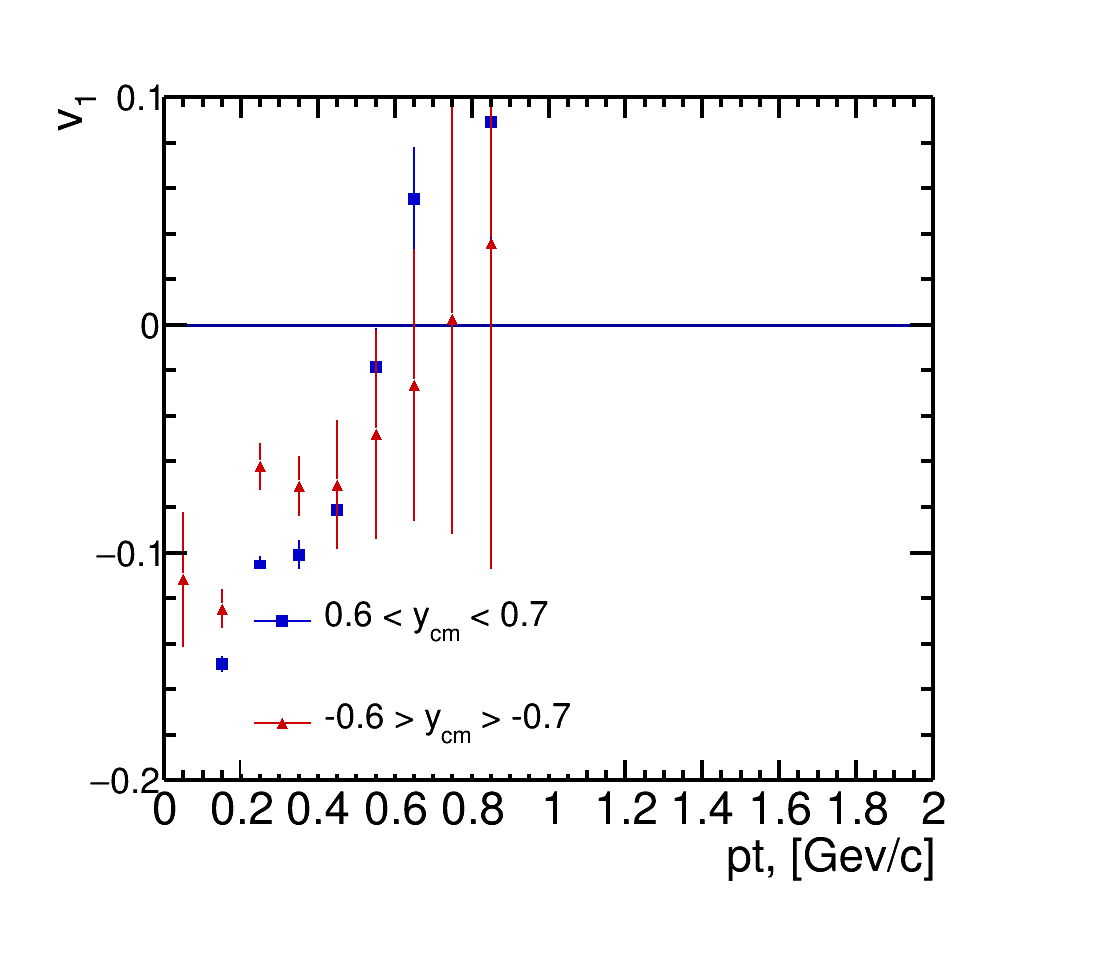
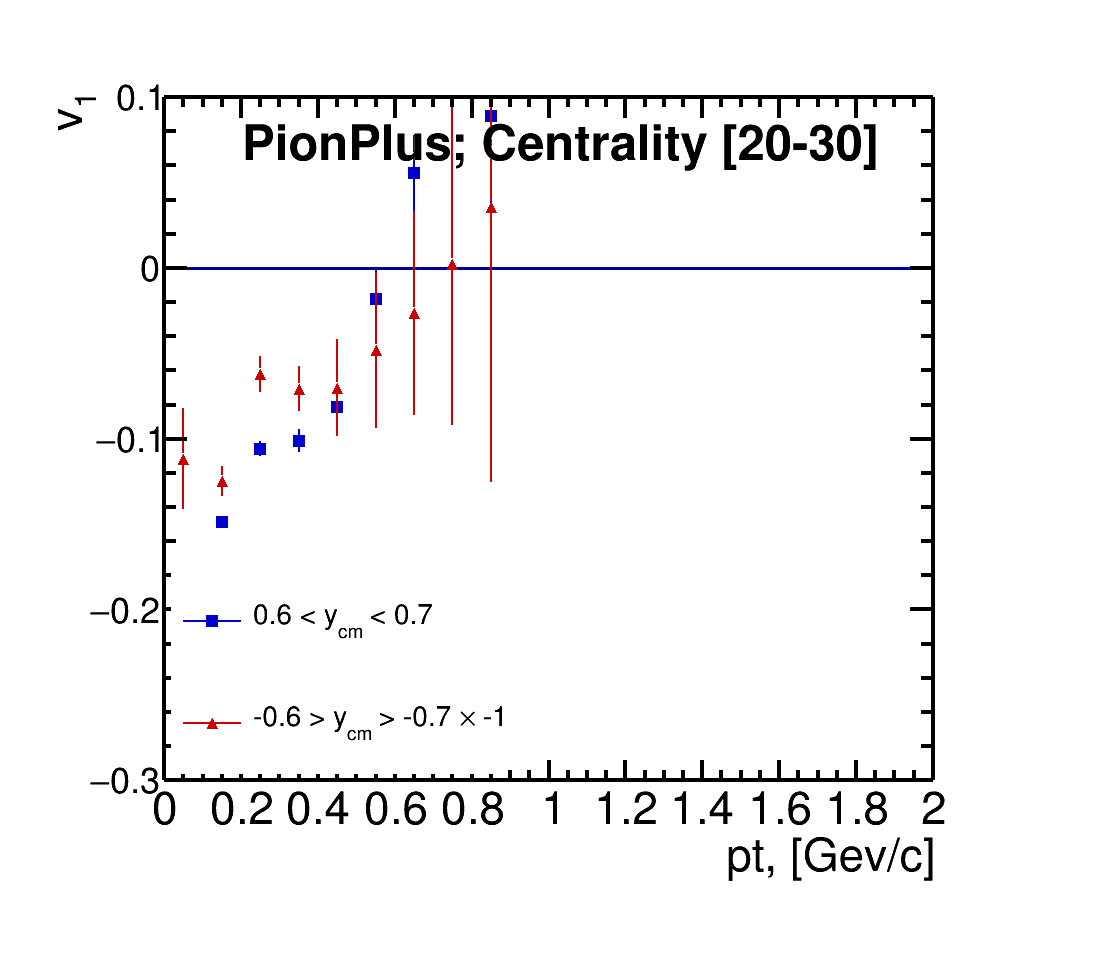
Bugs fixed

diff --git a/src/CorrelationMananger.h b/src/CorrelationMananger.h
@@ -5,56 +5,58 @@
 #ifndef QNDRAWER_CORRELATIONMANANGER_H
 #define QNDRAWER_CORRELATIONMANANGER_H
 
+#include "DataContainer.h"
+#include "Method.h"
+#include "Stats.h"
+#include "TFile.h"
+#include <map>
+#include <memory>
 #include <string>
 #include <utility>
 #include <vector>
-#include <memory>
-#include <map>
-#include "TFile.h"
-#include "DataContainer.h"
-#include "Stats.h"
 
 class CorrelationMananger {
 public:
-    CorrelationMananger() = default;
-    ~CorrelationMananger(){ heap_.clear(); }
-    void SetFile(const std::string& fileName) { file_.reset(TFile::Open(fileName.data())); }
-    void SetFile(std::shared_ptr<TFile> file) { file_ = std::move(file); }
-    void SetFile(TFile* file) { file_.reset(file); }
-    Qn::DataContainer<Qn::Stats>& GetDataContainer(const std::string& name){
-      Qn::DataContainer<Qn::Stats>* ptr{nullptr};
-      if( heap_.count(name) !=0 )
-        return heap_.at(name);
-      if(!file_)
-        return *ptr;
-      file_->GetObject( name.data(), ptr );
-      if(!ptr)
-      {
-        std::cout << "No such a data container: " << name << std::endl;
-        return *ptr;
-      }
-      heap_.insert( make_pair(name, *ptr) );
+  CorrelationMananger() = default;
+  ~CorrelationMananger(){ heap_.clear(); }
+  void SetFile(const std::string& fileName) { file_.reset(TFile::Open(fileName.data())); }
+  void SetFile(std::shared_ptr<TFile> file) { file_ = std::move(file); }
+  void SetFile(TFile* file) { file_.reset(file); }
+  Qn::DataContainer<Qn::Stats>& GetDataContainer(const std::string& name){
+    Qn::DataContainer<Qn::Stats>* ptr{nullptr};
+    if( heap_.count(name) !=0 )
+      return heap_.at(name);
+    if(!file_)
+      return *ptr;
+    file_->GetObject( name.data(), ptr );
+    if(!ptr)
+    {
+      std::cout << "No such a data container: " << name << std::endl;
       return *ptr;
     }
-    std::vector<Qn::DataContainer<Qn::Stats>> GetDataContainerVector(const std::vector<std::string>& names){
-      std::vector<Qn::DataContainer<Qn::Stats>> result;
-      result.reserve(names.size());
-      for(const auto& name: names){
-        result.push_back(GetDataContainer(name));
-      }
-      return result;
-    };
-    void SaveToFile(const std::string& fileName){
-        auto* file = new TFile( fileName.data(),"recreate" );
-        file->cd();
-        for(auto &container : heap_)
-        {
-            container.second.Write(container.first.data());
-        }
+    heap_.insert( make_pair(name, *ptr) );
+    return *ptr;
+  }
+  std::vector<Qn::DataContainer<Qn::Stats>> GetDataContainerVector(const std::vector<std::string>& names){
+    std::vector<Qn::DataContainer<Qn::Stats>> result;
+    result.reserve(names.size());
+    for(const auto& name: names){
+      result.push_back(GetDataContainer(name));
     }
+    return result;
+  };
+  void SaveToFile(const std::string& fileName){
+    auto* file = new TFile( fileName.data(),"recreate" );
+    file->cd();
+    for(auto &container : heap_)
+    {
+        container.second.Write(container.first.data());
+    }
+  }
+
 protected:
-    std::map<std::string, Qn::DataContainer<Qn::Stats> > heap_;
-    std::shared_ptr<TFile> file_;
+  std::map<std::string, Qn::DataContainer<Qn::Stats> > heap_;
+  std::shared_ptr<TFile> file_;
 };
 
 

diff --git a/Painter/DrawFwBw.C b/Painter/DrawFwBw.C
@@ -1,9 +1,13 @@
 #include "SetStyle.h"
+#include <string>
 
-void DrawFwBw(){
+void DrawFwBw(std::string file_prefix){
   SetStyle();
-  auto file_fw = TFile::Open("../Output_Files/ProtonFw.root");
-  auto file_bw = TFile::Open("../Output_Files/ProtonBw.root");
+  std::string file_path="../Output_Files/";
+  std::string fw_name{file_path+file_prefix+"Fw.root"};
+  std::string bw_name{file_path+file_prefix+"Bw.root"};
+  auto file_fw = TFile::Open(fw_name.data());
+  auto file_bw = TFile::Open(bw_name.data());
   if( !file_fw ) {
     return;
   }
@@ -17,8 +21,8 @@ void DrawFwBw(){
   auto stack = new THStack("stack", ";pt, [Gev/c]; v_{1}");
   stack->Add( histo_fw );
   stack->Add( histo_bw );
-  stack->SetMinimum(-0.1);
-  stack->SetMaximum(0.55);
+  stack->SetMinimum(-0.3);
+  stack->SetMaximum(0.1);
   histo_fw->SetTitle("0.6 < y_{cm} < 0.7");
   histo_fw->SetMarkerStyle(21);
   histo_fw->SetMarkerSize(1.5);
@@ -26,16 +30,25 @@ void DrawFwBw(){
   histo_fw->SetLineWidth(2);
   histo_fw->SetLineColor(kBlue+1);
 
-  histo_bw->SetTitle("-0.6 > y_{cm} > -0.7");
+  histo_bw->SetTitle("-0.6 > y_{cm} > -0.7 #times -1");
   histo_bw->SetMarkerStyle(22);
   histo_bw->SetMarkerSize(1.5);
   histo_bw->SetMarkerColor(kRed+1);
   histo_bw->SetLineWidth(2);
   histo_bw->SetLineColor(kRed+1);
 
+  auto text = new TPaveText(0.2, 0.8, 0.82, 0.9, "blNDC");
+  text->SetBorderSize(0);
+  text->SetFillColor(0);
+  text->SetFillStyle(0);
+  std::string text_str{ file_prefix+"; Centrality [20-30]" };
+  text->AddText(text_str.data());
+
   auto canvas = new TCanvas("canvas", "", 1100, 1000);
   canvas->cd();
   stack->Draw("NOSTACK");
   gPad->BuildLegend();
-  canvas->Print("Proton.png");
+  text->Draw();
+  std::string save_name=file_prefix+".png";
+  canvas->Print(save_name.data());
 }

diff --git a/Painter/DrawMidrapidity.C b/Painter/DrawMidrapidity.C
@@ -1,0 +1,56 @@
+#include "SetStyle.h"
+#include <string>
+
+void DrawMidrapidity(){
+  SetStyle();
+  enum particles{
+    PROTON=0,
+    PION_PLUS,
+    PION_MINUS
+  };
+  std::vector<std::string> file_name{
+    "../Output_Files/ProtonMr.root",
+    "../Output_Files/PionPlusMr.root",
+    "../Output_Files/PionMinusMr.root"
+  };
+  std::vector<std::string> histo_title{
+    "Proton",
+    "Pion Plus",
+    "Pion Minus"
+  };
+  std::vector<int> histo_color{kBlue+1, kRed+1, kGreen+1};
+  std::vector<int> histo_style{21, 22, 23};
+  std::vector<TFile*> file;
+  std::vector<TH1F*> histo;
+  for(auto name : file_name){
+    file.emplace_back( TFile::Open(name.data()) );
+  }
+  auto stack = new THStack("stack", ";pt, [Gev/c]; v_{1}");
+  for( auto f : file ){
+    histo.emplace_back( (TH1F*) f->Get("histo_") );
+    stack->Add(histo.back());
+  }
+  for(int i=0; i<histo.size(); i++){
+    histo.at(i)->SetTitle( histo_title.at(i).data() );
+    histo.at(i)->SetMarkerStyle( histo_style.at(i) );
+    histo.at(i)->SetMarkerColor( histo_color.at(i) );
+    histo.at(i)->SetLineColor( histo_color.at(i) );
+    histo.at(i)->SetMarkerSize( 1.5 );
+    histo.at(i)->SetLineWidth( 2 );
+  }
+  stack->SetMinimum(-0.2);
+  stack->SetMaximum(0.15);
+  auto text = new TPaveText(0.2, 0.8, 0.82, 0.9, "blNDC");
+  text->SetBorderSize(0);
+  text->SetFillColor(0);
+  text->SetFillStyle(0);
+  std::string text_str{ "Centrality [20-30], -0.05<y_{cm}<0.05" };
+  text->AddText(text_str.data());
+
+  auto canvas = new TCanvas("canvas", "", 1100, 1000);
+  canvas->cd();
+  stack->Draw("NOSTACK");
+  gPad->BuildLegend();
+  text->Draw();
+  canvas->Print("Midrapidity.png");
+}

diff --git a/src/MethodRs.h b/src/MethodRs.h
@@ -1,0 +1,40 @@
+//
+// Created by mikhail on 26.10.2019.
+//
+
+#ifndef QNDRAWER_METHODRS_H
+#define QNDRAWER_METHODRS_H
+
+#include "Method.h"
+
+class MethodRs : public Method {
+public:
+  MethodRs() = default;
+  ~MethodRs() override = default;
+  void Init() override {
+    auto R = []( const std::vector<Qn::DataContainer<Qn::Stats>>& correlations ){
+      Qn::DataContainer<Qn::Stats> result;
+      result = Sqrt(correlations.at(0) * 0.5 );
+      return result;
+    };
+    for(unsigned int i=0; i<2; i++)
+    {
+      sub_events_.emplace_back();
+      sub_events_.at(i).SetName(name_+std::to_string(i));
+      sub_events_.at(i).SetResolutionRule(R);
+      sub_events_.at(i).Init();
+    }
+    std::cout << "3 sub-event method is initialized" << std::endl;
+  }
+  void Compute() override {
+    for(unsigned int i=0; i<sub_events_.size(); i++){
+      for(unsigned int j=0; j<2; j++){
+        sub_events_.at(i).Resolution(j).Compute( qn_correlations_.at(j) );
+        sub_events_.at(i).Flow(j).Compute({qn_correlations_.at(j).at(i),sub_events_.at(i).Resolution(j).GetContainer()} );
+      }
+    }
+  }
+
+};
+
+#endif // QNDRAWER_METHODRS_H

diff --git a/src/flow.cpp b/src/flow.cpp
@@ -10,6 +10,7 @@
 #include <string>
 #include <iostream>
 #include "TFile.h"
+#include "FlowConfiguration.h"
 #include "CorrelationMananger.h"
 #include "Method3Se.h"
 #include <fstream>

diff --git a/src/MethodRs.cpp b/src/MethodRs.cpp
@@ -1,0 +1,5 @@
+//
+// Created by mikhail on 26.10.2019.
+//
+
+#include "MethodRs.h"
